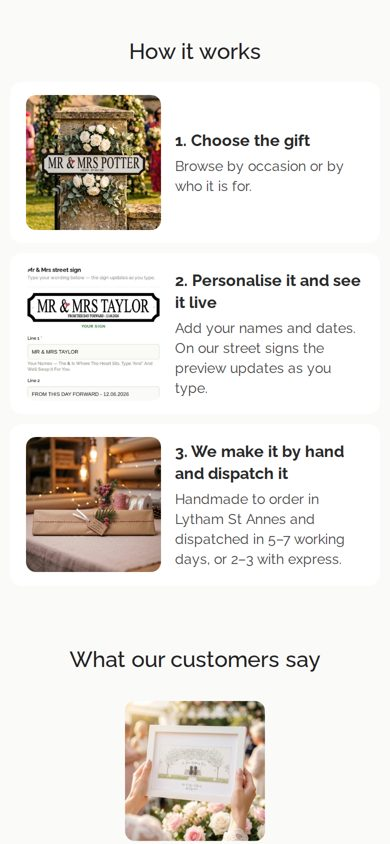
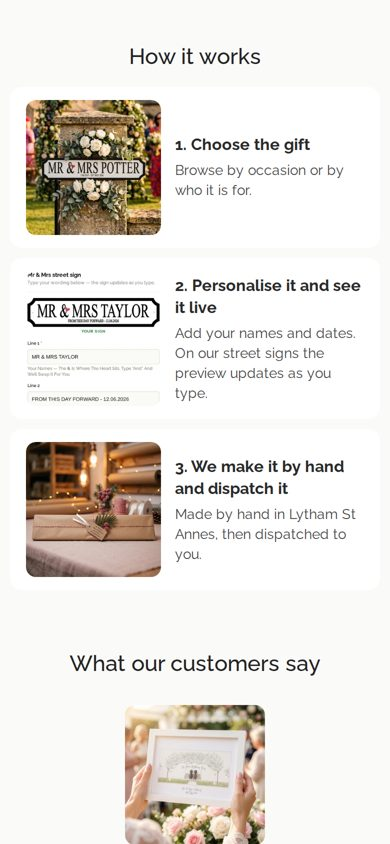
Homepage rebuild: apply review fixes (v3 on the theme copy)
- Occasion "For Mum" tile: use a Mum image (the collection image now
  shows a "Nanny" sign)
- Made in Lytham copy no longer calls the stock clip "our workshop";
  dispatch times appear only in the proof strip (the FAQ says 7-14 days
  at Christmas)
- Hero keeps its 1170 frame on desktop; edge-to-edge on phones via CSS;
  tighter headline line-height
- 3-across occasion rows also on small tablets; 2-line clamp on
  best-seller titles; video heading room on desktop; St Annes kept
  together
- README/decision log: publish checklist (date, welcome-code flow),
  dispatch conflict, section-id caveat; refreshed screenshots

Claude-Session: https://claude.ai/code/session_01FkihByNigTncv9nP3VU1WK

diff --git a/projects/homepage-rebuild/build_index.py b/projects/homepage-rebuild/build_index.py
@@ -49,7 +49,7 @@ styles = {
 
 # ---------------------------------------------------------------- 2. Hero
 hero = copy.deepcopy(old["image_banner_UJGTQq"])
-hero["settings"].update({"container": "fullwidth"})
+hero["settings"].update({"container": "1170"})  # desktop keeps its 1170 frame; phones go edge to edge via dm-home-styles
 hero["blocks"]["large_img_nMR3HH"]["settings"].update({
     # desktop keeps the existing landscape banner; phones get a real-room Christmas photo
     "mobile_image": img("FullSizeRender_879ae487-f623-4a13-9a53-350cf75daac1.heic"),
@@ -119,7 +119,7 @@ occasion_2 = tile_row("", [
     tile("New home", "New-Home-Christmas.jpg", col("my-home")),
     tile("Anniversary", "Pink_4f1f5235-141a-45e8-9380-015342809a7b.jpg", col("anniversary")),
     tile("Teacher", "Star-Keyring-BLUE-2.jpg", col("teachers-gifts")),
-    tile("For Mum", "Mothers-Day-S.S-Img-5-Grey.jpg", col("mothers-day")),
+    tile("For Mum", "MUM-NEW-1.jpg", col("mothers-day")),
 ], "occasion2", layout="scroll", column="4", column_mb="1", mg_top_mb=10, mg_bottom_mb=20)
 
 # ---------------------------------------------------------------- 4. Best sellers (was "Trending Now")
@@ -207,7 +207,7 @@ how = {"type": "custom-service-block", "blocks": {
                   "Add your names and dates. On our street signs the preview updates as you type.",
                   prod("mr-mrs-personalised-street-sign-gift")),
     "how_3": step("street_sign_christmas_wrapped.png", "3. We make it by hand and dispatch it",
-                  "Handmade to order in Lytham St Annes and dispatched in 5–7 working days, or 2–3 with express."),
+                  "Made by hand in Lytham St Annes, then dispatched to you."),
 }, "block_order": ["how_1", "how_2", "how_3"], "settings": {
     "id_section": "", "container": "1170", "padding_full_width": 0, "display_border_top": False, "display_border_bottom": False,
     "service_block_swipe_on_mobile": "list", "service_block_style": "style_1", "policies_bg": SECTION_BG,
@@ -268,11 +268,10 @@ video = copy.deepcopy(old["video_block_86qWNA"])
 video.pop("disabled", None)
 video["settings"].update({
     "container": "container", "spotlight_bg": SAGE, "spotlight_bg_gradient": "",
-    "video_block_title": "Personalised by you. Handmade by us in Lytham St Annes.",
+    "video_block_title": "Personalised by you. Handmade by us in Lytham St&nbsp;Annes.",
     "color_title": INK, "fontsize_title": 28, "fontsize_title_mb": 22, "margin_bottom_title": 12,
-    "video_block_des": ("<p>Every sign, pebble picture and keepsake is made to order in our Lytham St Annes workshop. "
-                        "You choose the words and we make it by hand, just for you. "
-                        "Orders are made and dispatched in 5–7 working days, or 2–3 with express.</p>"),
+    "video_block_des": ("<p>Our signs and pebble pictures are made to order in Lytham St Annes. "
+                        "You choose the words, and we make each one by hand, just for you.</p>"),
     "color_des": INK, "fontsize_des": 16, "title_align": "center",
     # the 480p Shopify rendition (3.7 MB) instead of the 19.3 MB original; url_mp4_mb stays blank
     # because custom.css shows both videos when it is set

diff --git a/projects/homepage-rebuild/README.md b/projects/homepage-rebuild/README.md
@@ -22,7 +22,7 @@ Direct landers know the brand but find nowhere obvious to go. The homepage's job
 | # | Section id | Ella section | What it is now | Why |
 |---|---|---|---|---|
 | 1 | `announcement_bar_a4ALfD` (header group) | announcement-bar | Two lines rotating every 3 s: "Order by [date] for guaranteed Christmas dispatch" and "Free UK delivery over £50". Dark bar, 13 px, no close button. | 7 of 9 benchmark stores lead with a promise. The combined line is 474 px wide and would not fit a 340 px phone, so it rotates instead. Site-wide on this theme. |
-| 2 | `image_banner_UJGTQq` | image-banner | Real-room photo of the "Our First Christmas Together" pebble heart. Under it: "Handmade to order in Lytham St Annes", headline **"Personalised gifts, handmade to order"**, ★★★★★ 10,000+ five-star reviews, one button **Shop Christmas gifts** → `/collections/christmas`, and a small text link **Wedding & engagement** → `/collections/wedding-engagement`. 588 px tall; the next row is visible above the fold. | Season, one button, proof with a number. The full headline ("…in Lytham St Annes") wrapped to 3 lines at 390 px, so the brief's tighter version is used. On phones the text card sits under the photo instead of covering it. Desktop keeps its old landscape image and overlay. |
+| 2 | `image_banner_UJGTQq` | image-banner | Real-room photo of the "Our First Christmas Together" pebble heart. Under it: "Handmade to order in Lytham St Annes", headline **"Personalised gifts, handmade to order"**, ★★★★★ 10,000+ five-star reviews, one button **Shop Christmas gifts** → `/collections/christmas`, and a small text link **Wedding & engagement** → `/collections/wedding-engagement`. 568 px tall; the next row is visible above the fold. | Season, one button, proof with a number. The full headline ("…in Lytham St Annes") wrapped to 3 lines at 390 px, so the brief's tighter version is used. On phones the text card sits under the photo instead of covering it. Desktop keeps its old landscape image and overlay. |
 | 3 | `spotlight_block_JFKrLj` + `dm_occasion_row_2` | spotlight-block ×2 | **Shop by occasion**: two rows of four, three visible plus a peek, each row swipes. Christmas · Wedding · Engagement · Christening / New home · Anniversary · Teacher · For Mum. | Replaces the one-tile-per-screen "Our Most Cherished Gifts" (same section id, reused). |
 | 4 | `product_block_QcxFaJ` | product-block | **Best sellers**: 8 products from the new automated `best-sellers` collection, with prices, no sale badges or struck-through prices, and a "Shop all best sellers" link. | Replaces the hand-picked "Trending Now" (tealight first). Never needs curating. |
 | 5 | `16393870238958f868` | custom-service-block | **Proof strip**, 2 × 2 with icons: 10,000+ five-star reviews · Handmade in Lancashire · Made and dispatched in 5–7 working days, express 2–3 · Free UK delivery over £50. | Proof with numbers, no slider. The text-only "Why thousands choose us" (`custom_service_block_jYPjBJ`) is removed. |
@@ -30,7 +30,7 @@ Direct landers know the brand but find nowhere obvious to go. The homepage's job
 | 7 | `dm_how_it_works` | custom-service-block | **How it works**: 1. Choose the gift · 2. Personalise it and see it live · 3. We make it by hand and dispatch it. Step 2 is a phone screenshot of the live sign preview on the Mr & Mrs page ("MR & MRS TAYLOR" typed in). | The live preview is the differentiator. Built from an existing Ella section (image + title + text), so it needs no new section code. |
 | 8 | `dm_reviews` + `17394583817a28cc5e` | customer-review-block + apps (Feefo) | **What our customers say**: three verbatim 5-star reviews with product photos, each linking to its product. The Feefo block sits straight after it. | See "Feefo" below: the Feefo widget renders nothing. Quotes are copied word for word from `snippets/dm-proof.liquid` (harvested 4 Jul 2026 from Trustpilot/Feefo). |
 | 9 | `dm_recipient_row_1` + `dm_recipient_row_2` | spotlight-block ×2 | **Shop by recipient**, 3 across: For couples · For Mum · For grandparents / For teachers · For the family · For friends. | Second way in. |
-| 10 | `video_block_86qWNA` | video-block | Enabled. Sage panel: **"Personalised by you. Handmade by us in Lytham St Annes."** plus three plain sentences, then the video. | The placeholder "Hamburger ham picanha…" text is gone. |
+| 10 | `video_block_86qWNA` | video-block | Enabled. Sage panel: **"Personalised by you. Handmade by us in Lytham St Annes."** plus two plain sentences ("Our signs and pebble pictures are made to order in Lytham St Annes. You choose the words, and we make each one by hand, just for you."), then the video. | The placeholder "Hamburger ham picanha…" text is gone. The copy doesn't call the clip "our workshop" (see below) and doesn't repeat dispatch times. |
 | 11 | `16378128152fdd5fe7`, `1726396330d08baf63`, `dm_newsletter` | instagram, apps (Instafeed), newsletter | #DaisyMaison unchanged, then an inline sign-up: **"10% off your first order"**. No popup. | Newsletter with an incentive, inline. |
 | – | `dm_home_styles` | custom-liquid | A `<style>` block, first in the order, renders nothing visible. | The only new code. See `dm-home-styles.liquid`. |
 
@@ -39,12 +39,14 @@ The six sections that were already disabled (Elfsight, press banner, wedding bes
 ### Where the build differs from the brief, and why
 
 1. **"column_mb 3" does not exist in Ella.** The setting only accepts 1 or 2, and a spotlight-block holds at most 4 tiles. So the 8 occasion tiles are two spotlight sections of 4, the 6 recipient tiles are two of 3, and a few lines of CSS make them three across.
-2. **The "second service block" had no icon images.** All three of its blocks were `icon_type: image` with the image left empty. Content > Files has no icon images at all (the full library of 3,230 files was checked). The proof strip therefore uses Ella's other icon option: `icon_type: "text"`, which takes inline SVG. The four simple line icons are star, heart, clock and van.
+2. **The "second service block" had no icon images.** All three of its blocks were `icon_type: image` with the image left empty. Content > Files has no suitable icon images (the full library of 3,230 files was checked; the only line icon is a shipping-protection shield). The proof strip therefore uses Ella's other icon option: `icon_type: "text"`, which takes inline SVG. The four simple line icons are star, heart, clock and van.
 3. **Feefo cannot show anything.** Feefo's API answers `'Closed' account is not able to interact with the Reviews API` for `daisy-maison`. The on-page widget renders at 0 px on the live homepage today. The two "400 Bad Request" console errors on every page are Feefo. That is why the Feefo block was moved but three real reviews were added above it.
 4. **No stars on product cards.** The card template (`product-card-02`) has no rating markup, and Feefo is closed. Stars on cards would need a snippet edit plus a working reviews app.
 5. **The workshop video.** It plays and is kept. It is "Untitled design (3).mp4" (a Canva export): hands making a pink paper flower with a DM watermark, not signs or pebbles. The section now loads Shopify's 480p rendition (3.7 MB) instead of the 19.3 MB original. The saved video heights (`"66%"`, `"100%"`) rendered as `100%%` and collapsed the video to 0 px on phones, so they are now `56.25` (16:9).
 6. **Newsletter wording.** The live welcome discount (`welcome10`, unique codes) gives 10% off **54 named collections**, not the whole order. The heading keeps the brief's "10% off your first order", and the line underneath says "10% off selected ranges".
-7. **Sentence case.** The theme capitalises every word of every heading. On the homepage only, headings now show as written ("Best sellers", not "Best Sellers").
+7. **Sentence case.** The theme capitalises every word of every heading. On the homepage only, headings now show as written ("Best sellers", not "Best Sellers"). Buttons keep the theme's site-wide uppercase style.
+8. **Dispatch times appear once**, in the proof strip, as the brief asks. The FAQ says Christmas dispatch "can be up to 7-14 working days", and the free-delivery rate says "3-5 Working day dispatch". The three disagree, so check them before the Christmas cut-off goes up.
+9. **Tablets.** The 3-across occasion rows also apply from 768 to 992 px, where Ella would otherwise show a big-tile carousel.
 
 ## New things on the store (outside the theme)
 
@@ -69,7 +71,7 @@ The six sections that were already disabled (Elfsight, press banner, wedding bes
 | New home | `my-home` | New-Home-Christmas.jpg | **No New Home collection exists** |
 | Anniversary | `anniversary` | Pink_4f1f5235….jpg | |
 | Teacher | `teachers-gifts` | Star-Keyring-BLUE-2.jpg | Collection includes a tealight holder (#2) |
-| For Mum (occasion) | `mothers-day` | Mothers-Day-S.S-Img-5-Grey.jpg | |
+| For Mum (occasion) | `mothers-day` | MUM-NEW-1.jpg | The collection's own image now shows a "NANNY, JACK & CONNOR" sign, so it isn't used |
 | Christmas street signs | `christmas-street-signs` | Xmas-Sign-BS-Family.jpg | Collection sorts football stadium signs first |
 | First Christmas hearts | `christmas-pebble-hanging-hearts` | 1st-Christmas-as-Mummy-and-Daddy-copy.jpg | **No First Christmas collection**; this one holds 6 of the 13 |
 | Christmas reed diffuser | product `personalised-christmas-reed-diffuser-gift` | christmas_reed_diffuser.png | |
@@ -114,19 +116,20 @@ WHERE landing_page_path = '/' GROUP BY referrer_source SINCE -30d UNTIL today OR
 ## How to publish (Max)
 
 1. Look at the preview on your phone.
-2. On the copy (Themes → "In construction 🚧" → Customize), fill in the **[date]** in the announcement bar.
-3. **Check the live theme's "Last saved" time.** The copy was made at 10:43 on 23 Sep. If anything was changed on the live theme after that, publishing the copy would undo it. In that case, port the two changed files (`templates/index.json`, `sections/header-group.json`) onto a fresh duplicate instead.
-4. Themes → "In construction 🚧" → **Publish**.
-5. **Rollback:** the old theme stays in the theme library. Publish it again, or put back `index.before.json` / `header-group.before.json`.
+2. On the copy (Themes → "In construction 🚧" → Customize), fill in the **[date]** in the announcement bar. It shows on every page, so it must not go live as "[date]".
+3. **Confirm the 10% welcome code actually reaches people who sign up with this form.** The form creates a customer tagged `newsletter`; the theme sends no code. The code has to come from a Shopify Email or Klaviyo welcome flow. If there is no such flow, change the newsletter heading before publishing. The code (`welcome10`) covers 54 collections, not the whole order.
+4. **Check the live theme's "Last saved" time.** The copy was made at 10:43 on 23 Sep. If anything was changed on the live theme after that, publishing the copy would undo it. In that case, port the two changed files (`templates/index.json`, `sections/header-group.json`) onto a fresh duplicate instead.
+5. Themes → "In construction 🚧" → **Publish**.
+6. **Rollback:** the old theme stays in the theme library. Publish it again, or put back `index.before.json` / `header-group.before.json`.
 
 ## Files
 
 | File | What |
 |---|---|
-| `index.json` | The new `templates/index.json`, as uploaded (md5 `7285d2e50304259853bec234c9765c76`, re-read from Shopify after upload) |
+| `index.json` | The new `templates/index.json`, as uploaded (md5 `5c7bf752685f5c41640834fc4a57e230`, re-read from Shopify after upload) |
 | `index.before.json` | The original homepage, byte-exact (md5 `c2b6449ec05ca78c521c11100d140093`, identical on live and copy) |
 | `header-group.json` / `header-group.before.json` | Header group with the new announcement bar (md5 `91d6746fda42f340de861ab5cc68313d`) / the original as returned by the API |
-| `dm-home-styles.liquid` | The one custom-liquid block: homepage-only CSS for the hero card, sentence-case headings, text link, badges, 3-across tiles, 2 × 2 proof strip, how-it-works rows and review photos |
+| `dm-home-styles.liquid` | The one custom-liquid block: homepage-only CSS for the hero card, sentence-case headings, text link, badges and 2-line card titles, 3-across tiles, 2 × 2 proof strip, how-it-works rows, the Made in Lytham heading and review photos. Several rules target section ids (`16393870238958f868`, `dm_*`, `spotlight_block_JFKrLj`): if one of those sections is deleted and re-added in the theme editor, it gets a new id and its CSS stops applying. |
 | `build_index.py`, `build_header_group.py` | Rebuild both JSON files from the originals |
 | `validate_template.py` | Checks every setting against the section schemas, plus images, links and block limits |
 | `screenshots/` | Phone screenshots of the preview (390 px) and the step-2 image |
@@ -148,4 +151,7 @@ python3 validate_template.py index.json --theme-dir <theme>/ --before index.befo
   - two Feefo 400s
   - an `en-US@posix` locale warning
   - the same three page errors
+- The final run also logged one `503` from `/cart.js`. The theme calls that on every page, and it didn't appear in the two earlier runs, so it is most likely throttling after a day of test loads.
+- A 1440 px desktop check was clean. The page is 10 px wider than the window, but live is too.
+- Reviewed by three independent passes (brief, copy and claims, CSS risk) before the PR. Their fixes are in.
 - Not verifiable headless: video playback (the test browser has no H.264; the file is valid) and the Instafeed grid, which is empty headless on the live homepage too.

diff --git a/operating systems/decision-log.md b/operating systems/decision-log.md
@@ -69,19 +69,20 @@ Each entry:
 10. Made in Lytham
 11. Instagram, then an inline 10% sign-up
 
-Sale badges and the tealight holder come off the homepage. Built on the unpublished copy "In construction 🚧" (207623029075). Max publishes. Details: `projects/homepage-rebuild/README.md`.
+Sale badges and the tealight holder come off the homepage. The workshop video is kept, but it shows paper-flower making (a Canva clip), so the copy doesn't call it "our workshop". Built on the unpublished copy "In construction 🚧" (207623029075). Max publishes. Details: `projects/homepage-rebuild/README.md`.
 
-**Reason:** 7% of sessions land on the homepage. Direct homepage landers convert at 0.99% (1,413 sessions, 14 checkouts, last 30 days) against 9.97% for brand search. The old page gave them nowhere obvious to go: a generic hero with a wedding button, a hand-picked row led by a £10.99 tealight holder, a text-only promise slider and one tile per screen.
+**Reason:** 7% of sessions land on the homepage. Direct homepage landers convert at 0.99% (1,413 sessions, 14 checkouts, last 30 days) against 9.97% for search (per the brief, 7% of all sessions land on the homepage). The old page gave them nowhere obvious to go: a generic hero with a wedding button, a hand-picked row led by a £10.99 tealight holder, a text-only promise slider and one tile per screen.
 
 **Expected outcome:** Direct homepage-landing conversion rises from 0.99% towards the search figure. Anything above 2.5% over the 28 days after publishing pays for the work. Measure with the ShopifyQL query in the README, split by `referrer_source`.
 
 **Risk:**
 - The hero goes stale after Christmas. It needs an owner and a calendar date (see "Swapping the seasonal hero").
 - Best sellers is all-time, so the Valentine's sign ranks #2 in the Christmas run-up.
-- Claims to confirm before publishing:
+- Claims to confirm before publishing. The owner declared the first two established; the site data doesn't back them yet:
   - "Lytham St Annes": the site address is Blackpool.
   - "10,000+ five-star reviews": no source found, and Feefo is closed.
-  - The welcome 10% covers 54 collections, not the whole order.
+  - The welcome 10% covers 54 collections, not the whole order. Nothing confirms that a welcome email flow sends the code to people who sign up with the homepage form.
+  - Dispatch times disagree: the proof strip and FAQ say 5–7 working days; the FAQ says up to 7–14 at Christmas; the free-delivery rate says 3–5.
 - Publishing the copy would undo any live-theme edits made after 10:43 on 23 Sep.
 
 **Rollback:** Re-publish the previous live theme, which stays in the theme library. Or restore `index.before.json` and `header-group.before.json` from `projects/homepage-rebuild/`. The Best sellers collection can be unpublished or deleted separately.
